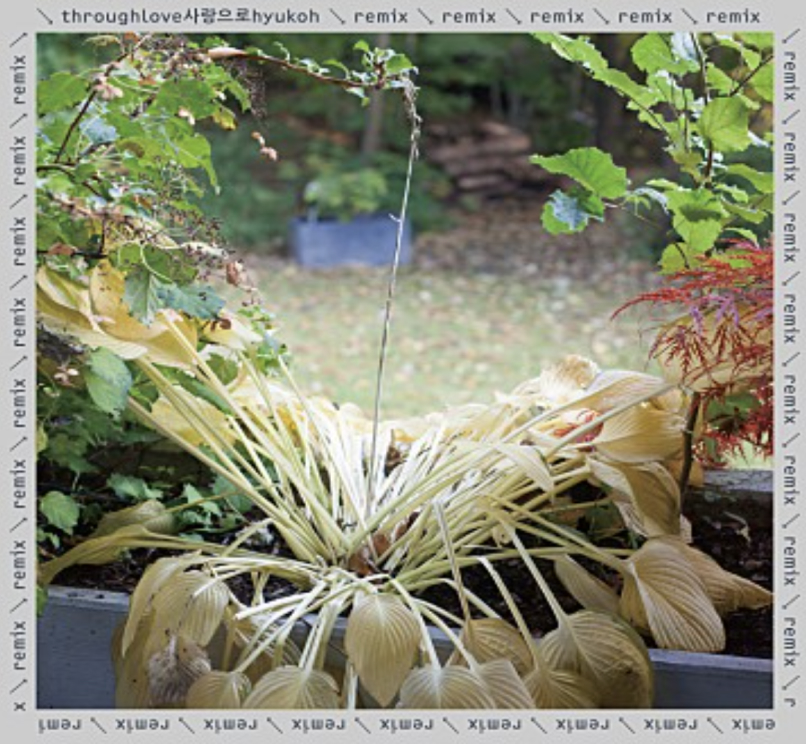
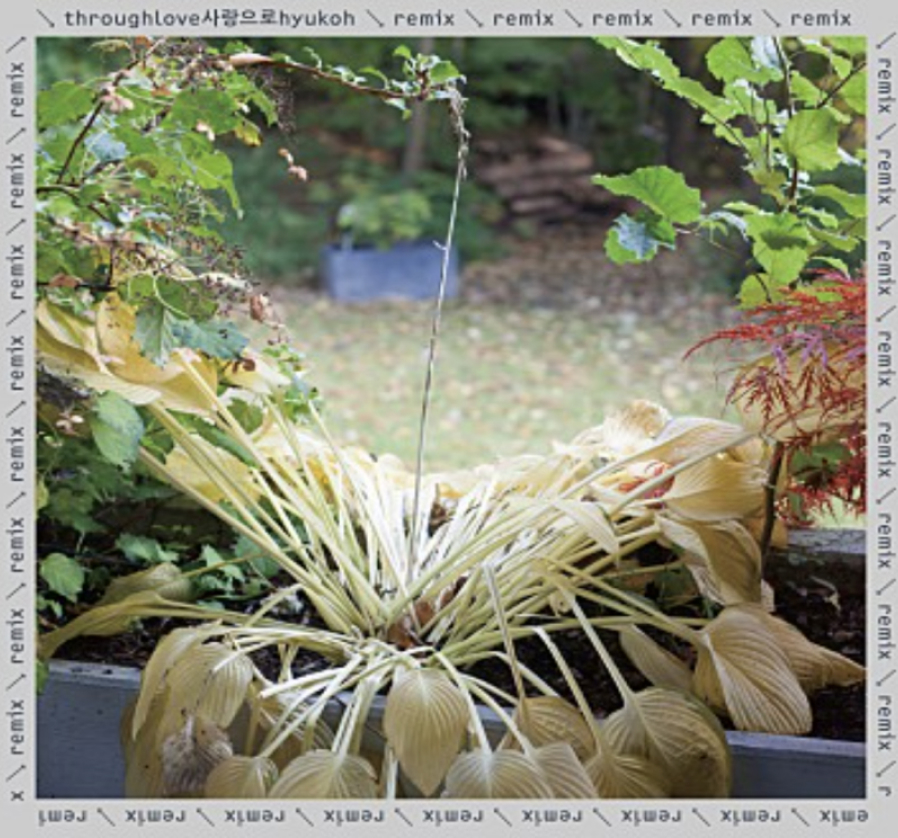
save before insert i tag into albumcover

diff --git a/index.html b/index.html
@@ -23,29 +23,53 @@
 
       <main>
         <section id="section-a">
-          <div class="albumbox box1" id="box1">
-            <p>Help (remix)</p>
+            <div class="albumbox box1" id="box1">
+              <a href="#">
+                <img src="/Images/albumcover1.jpg" alt="#" class="album1">
+                <p>Help (remix)</p>
+              </a>
           </div>
           <div class="albumbox box2" id="box2">
-            <p>Silver hair express</p>
+            <a href="#">
+              <img src="/Images/albumcover1.jpg" alt="#" class="album1">
+              <p>Silver hair express</p>
+            </a>
           </div>
           <div class="albumbox box3" id="box3">
-            <p>Help (remix v2)</p>
+            <a href="#">
+              <img src="/Images/albumcover1.jpg" alt="#" class="album1">
+              <p>Help <span>(remix v2)</span></p>
+            </a>
           </div>
           <div class="albumbox box4" id="box4">
-            <p>Through love</p>
+            <a href="#">
+              <img src="/Images/albumcover4.jpg" alt="#" class="album1">
+              <p>Through love</p>
+            </a>
           </div>
           <div class="albumbox box5" id="box5">
-            <p>Ganggang schiele</p>
+            <a href="#">
+              <img src="/Images/albumcover5.jpg" alt="#" class="album1">
+              <p>Ganggang schiele</p>
+            </a>
           </div>
           <div class="albumbox box6" id="box6">
-            <p>24 : how to find true love and happiness</p>
+            <a href="#">
+              <img src="/Images/albumcover6.jpg" alt="#" class="album1">
+              <p>24: <span>How to find true love and happiness</span></p>
+            </a>
           </div>
           <div class="albumbox box7" id="box7">
-            <p>23</p>
+            <a href="#">
+              <img src="/Images/albumcover7.jpg" alt="#" class="album1">
+              <p>23</p>
+            </a>
           </div>
           <div class="albumbox box8" id="box8">
-            <p>22</p>
+            <a href="#">
+              <img src="/Images/albumcover8.jpg" alt="#" class="album1">
+              <p>22</p>
+            </a>
           </div>
         </section>
         <section id="section-b">

diff --git a/style.scss b/style.scss
@@ -14,6 +14,10 @@ body{
 }
 a{
   text-decoration: none;
+  color:$secondaryColor;
+}
+img{
+  display:block;
 }
 header{
   top:0;
@@ -28,6 +32,7 @@ header{
     padding: 1rem;
   }
 }
+
 main{
   @include flexcenter(row);
   & #section-a {
@@ -39,24 +44,25 @@ main{
     text-align:center;
     background-color: $primaryColor;
     height:83vh;
-
     & .albumbox {
       @include maintext;
       width:22%;
       height:32%;
-      background-color: grey;
       margin:0 1rem 1rem 0;
+      padding:.5rem;
     }
-    & .box1{
-      background-image: url(/Images/albumcover1.jpg);
-      background-position: center;
-      background-size: cover;
+    & .album1, .album2, .album3, .album4, .album5, .album6, .album7, .album8 {
+      width:100%;
+      height:auto;
+    }
+    & span{
+      font-size:1rem;
     }
   }
   & #section-b {
     font-family: 'Montserrat', sans-serif;
     background-color: $secondaryColor;
-    flex:.6;
+    flex:.7;
     padding:1rem;
     height: 83vh;
 
@@ -67,8 +73,7 @@ main{
       height:90%;
       border-right:1px solid $primaryColor;
     }
-  }
-  
+  } 
 }
 footer{
   bottom:0;

diff --git a/css/style.css b/css/style.css
@@ -36,6 +36,11 @@ body {
 
 a {
   text-decoration: none;
+  color: #fff;
+}
+
+img {
+  display: block;
 }
 
 header {
@@ -101,22 +106,25 @@ main #section-a .albumbox {
   font-family: 'Montserrat', sans-serif;
   width: 22%;
   height: 32%;
-  background-color: grey;
   margin: 0 1rem 1rem 0;
+  padding: .5rem;
 }
 
-main #section-a .box1 {
-  background-image: url(/Images/albumcover1.jpg);
-  background-position: center;
-  background-size: cover;
+main #section-a .album1, main #section-a .album2, main #section-a .album3, main #section-a .album4, main #section-a .album5, main #section-a .album6, main #section-a .album7, main #section-a .album8 {
+  width: 100%;
+  height: auto;
+}
+
+main #section-a span {
+  font-size: 1rem;
 }
 
 main #section-b {
   font-family: 'Montserrat', sans-serif;
   background-color: #fff;
-  -webkit-box-flex: .6;
-      -ms-flex: .6;
-          flex: .6;
+  -webkit-box-flex: .7;
+      -ms-flex: .7;
+          flex: .7;
   padding: 1rem;
   height: 83vh;
 }
